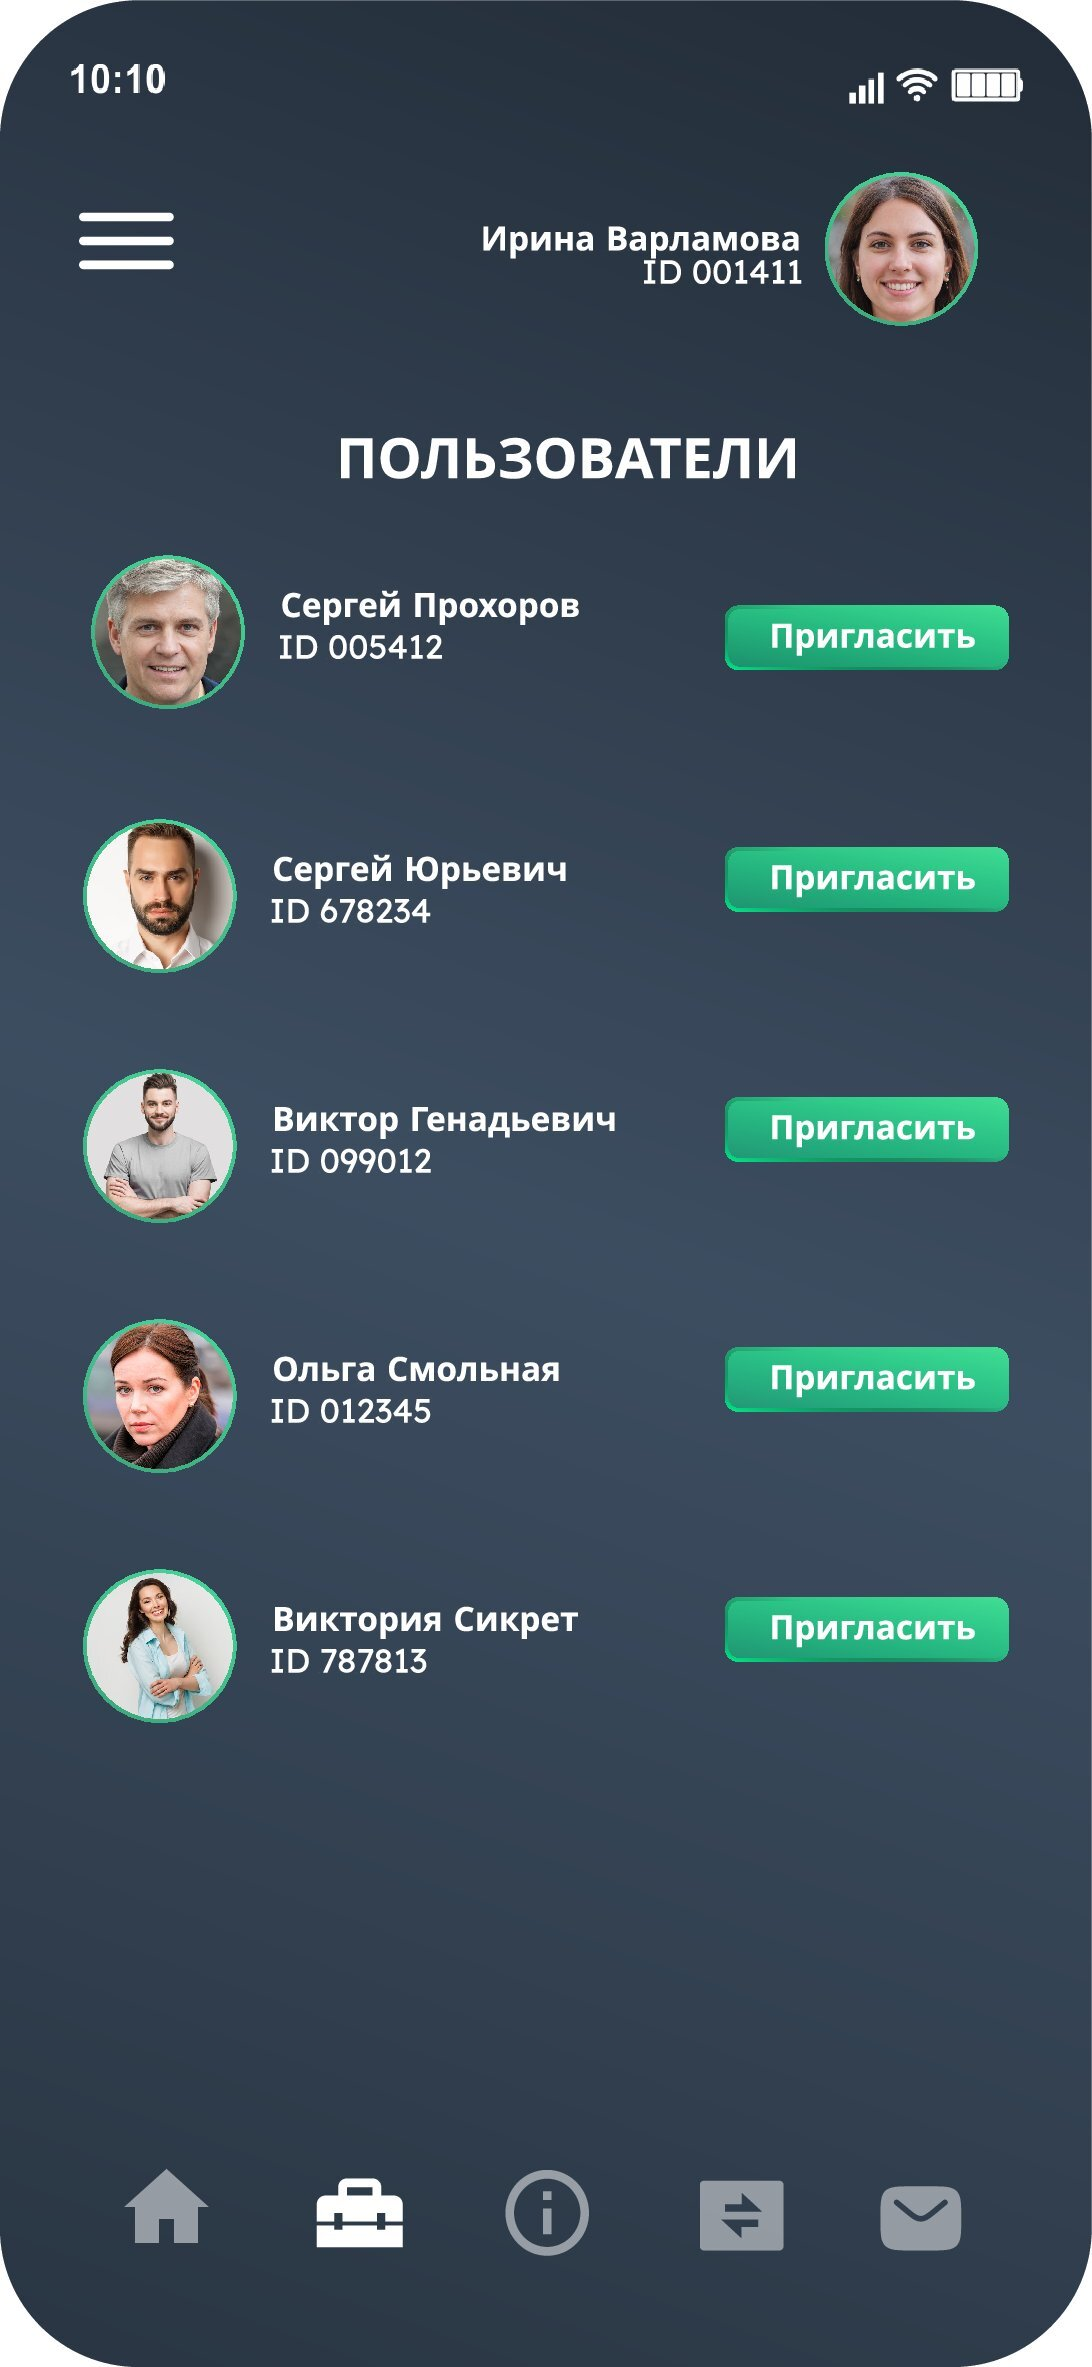
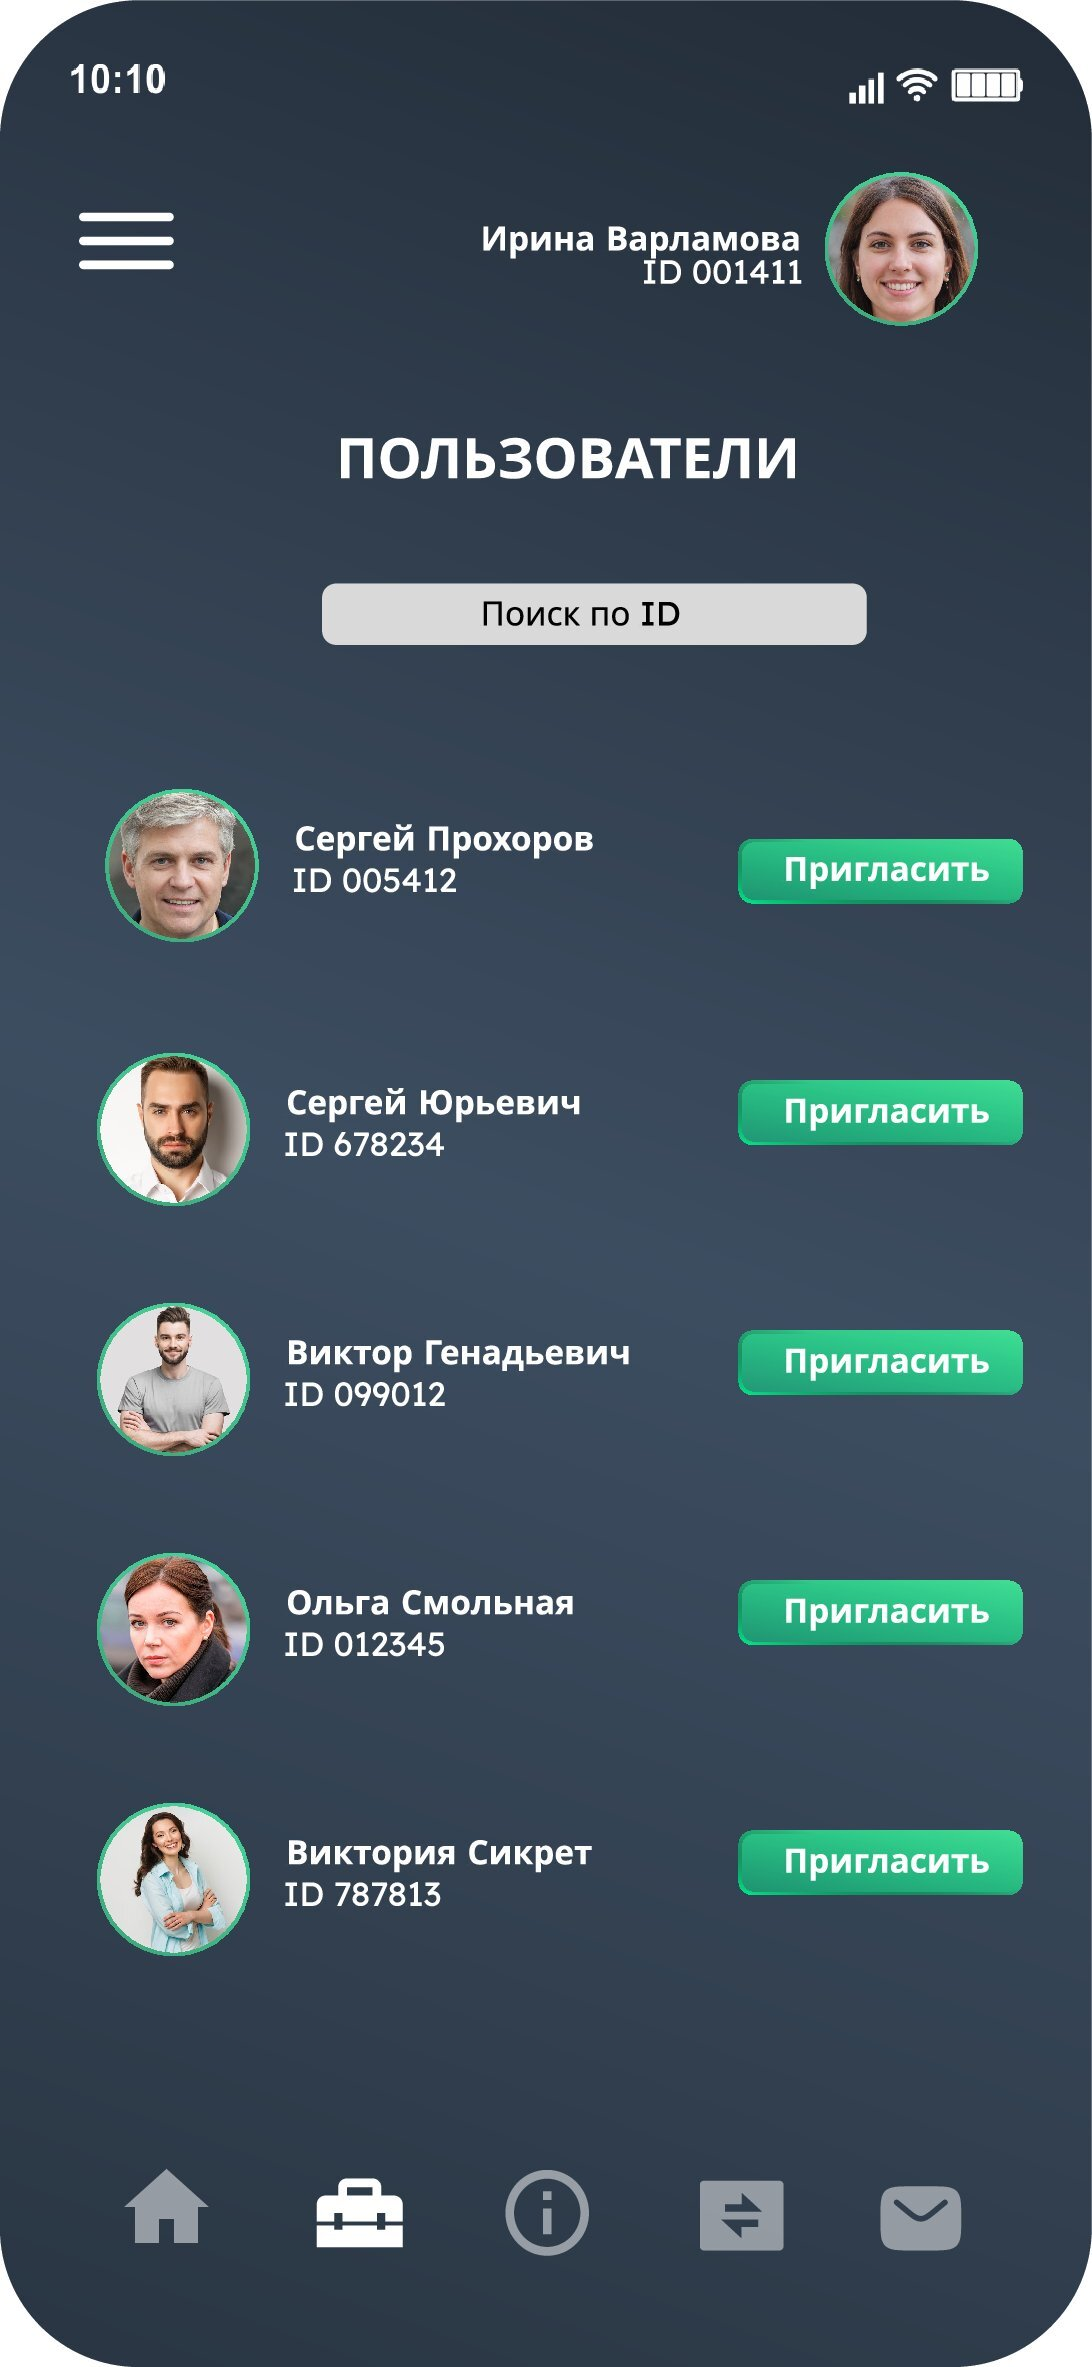
readme fix

diff --git a/README.md b/README.md
@@ -1,5 +1,23 @@
-# BookMe
+# BookMe_Frontend
 
+## Оглавление
+
+1. [Введение](#введение)
+2. [Роли](#роли:)
+3. [Технологии](#технологии:)
+4. [Участники проекта](#участники-проекта:)
+5. [Авторизация/Регистрация](#авторизация/Регистрация)
+6. [Роль Пользователь](#роль-пользователь)
+    - [Календарь](#календарь)
+    - [Опция "Пригласить"](#опция-пригласить)
+7. [Роль Гость](#роль-гость)
+    - [Просмотр приглашений](#просмотр-приглашений)
+    - [Мои брони](#мои-брони)
+8. [Поиск пользователей](#поиск-пользователей)
+9. [Личный кабинет](#личный-кабинет)
+
+
+# Введение
 Проект, который помогает договариваться о встречах **быстро** и **без лишних ожиданий** от собеседника.
 
 В этом приложении вы можете:
@@ -8,6 +26,14 @@
 3. Гость выбирает наиболее удобный вариант.
 4. Вы получаете уведомление о выборе гостем времени.
 5. Тайм-слот автоматически бронируется в вашем календаре.
+
+## Роли:
+1. **_Пользователь_** - тот, кто приглашает.
+2. **_Гость_** - тот, кто принимает приглашение.
+
+
+`P.S
+Роли представленны для удобства. Фактического распределения ролей в слое авторизации нет`
 
 ## Технологии:
 - Dart/Flutter (Frontend)
@@ -25,36 +51,121 @@
 - [Айчурок Ибраимова](https://t.me/aichurok_i) - **Frontend**
 - [Семенов Филипп](https://t.me/semenovfilipp) - **Backend**
 
+_____
 ### Авторизация/Регистрация
-<img src="docs/Календарь_фото/1.jpg" alt="Фото 1" width="200" height=""> <!-- Фото -->
 
 #### Авторизация
 - Проверка пользователя осуществляется по email.
 - Каждый пользователь получает JWT токен после авторизации.
 - Все запросы к API проходят через токен, который проверяется на стороне Java.
 
+<img src="docs/Календарь_фото/1.jpg" alt="Фото 1" width="200" height=""> <!-- Фото -->
 
-<img src="docs/Календарь_фото/9.jpg" alt="Фото 9" width="200" height="">
 
 #### Регистрация
 - Регистрация происходит по email.
 - После регистрации пользователь получает письмо с подтверждением.
 - Для безопасности запроса токен проверяется при каждом запросе и может быть обновлен.
+  
+<img src="docs/Календарь_фото/9.jpg" alt="Фото 9" width="200" height="">
+
+_____
+# Роль Пользователь
+## Календарь
+
+Каждый пользователь имеет свой собственный календарь. В нем представлены тайм-слоты с интервалом в 1 час. В текущей версии **MVP** календарь охватывает период с 10:00 до 20:00.
+
+### Тайм-слоты
+
+Каждый тайм-слот может находиться в двух состояниях:
+
+- **Забронирован** (отображается красным цветом)
+- **Свободен** (отображается зеленым цветом)
+
+### Месяц
+
+В режиме просмотра месяца показываются числа текущего месяца. Каждое число отображает количество забронированных тайм-слотов в виде маленьких квадратиков.
+
+<img src="docs/Календарь_фото/2.jpg" alt="Фото 2" width="200" height="">
+
+### Неделя
+
+В режиме просмотра недели показываются дни текущей недели. Каждый день показывает количество забронированных тайм-слотов.
+
+<img src="docs/Календарь_фото/3.jpg" alt="Фото 3" width="200" height="">
+
+### День
+
+В режиме просмотра дня отображаются все тайм-слоты текущего дня. Занятые тайм-слоты отмечены пользователем, который их забронировал. На свободных тайм-слотах имеется опция "Пригласить".
+
+<img src="docs/Календарь_фото/4.jpg" alt="Фото 4" width="200" height="">
+
+___
+## Опция пригласить
+
+Когда пользователь нажимает на тайм-слот, который не занят, появляется опция "Пригласить".
+В окне пользователь может выбрать:
+- Дату, на которую он хочет пригласить гостя.
+- Свободные тайм-слоты в дате, на которую он хочет пригласить гостя.
+
+<img src="docs/Календарь_фото/5.jpg" alt="Фото 5" width="200" height="">
+
+На данный момент в варианте **_MVP_** пригласить пользователя можно только по его ID.
 
 
 
+______
+# Роль Гость
+## Просмотр приглашений
+
+Гость может просматривать свои приглашения, то есть те события на которые **пригласили его**.
+
+<img src="docs/Календарь_фото/6.jpg" alt="Фото 6" width="200" height="">
+
+При переходе по приглашению предлагается выбор:
+- Принять приглашение.
+- Выбрать тайм-слот
+- Посмотртеть кто пригласил
+- Посмотрть на какую дату приглашение
+
+<img src="docs/Календарь_фото/7.jpg" alt="Фото 7" width="200" height="">
 
 
-<img src="docs/Календарь_фото/2.jpg" alt="Фото 2" width="300" height="">
-<img src="docs/Календарь_фото/3.jpg" alt="Фото 3" width="300" height="">
-<img src="docs/Календарь_фото/4.jpg" alt="Фото 4" width="300" height="">
-<img src="docs/Календарь_фото/5.jpg" alt="Фото 5" width="300" height="">
-<img src="docs/Календарь_фото/6.jpg" alt="Фото 6" width="300" height="">
-<img src="docs/Календарь_фото/7.jpg" alt="Фото 7" width="300" height="">
-<img src="docs/Календарь_фото/8.jpg" alt="Фото 8" width="300" height="">
-<img src="docs/Календарь_фото/9.jpg" alt="Фото 9" width="300" height="">
-<img src="docs/Календарь_фото/10.jpg" alt="Фото 10" width="300" height="">
-<img src="docs/Календарь_фото/11.jpg" alt="Фото 11" width="300" height="">
-<img src="docs/Календарь_фото/12.jpg" alt="Фото 12" width="300" height="">
+При принятии приглашения происходит визуальная индикация для гостя - выбранный таймслот становится красным.
+Далее гостьподтверждает свой выбор. Его бронь отправляется в "Мои брони".
+Пользователь который создал приглашение получает уведомление об успешном принятии приглашения.
+ 
+<img src="docs/Календарь_фото/8.jpg" alt="Фото 8" width="200" height="">
+
+
+`При отсутсвии выбора отмена приглашения происходит автоматически.
+`
+
+____
+## Мои брони
+
+<img src="docs/Календарь_фото/11.jpg" alt="Фото 11" width="200" height="">
+
+Здесь гость может просматривать свои брони, то есть события участие в которых он подтвердил.
+
+_____
+# Поиск пользователей
+
+Поиск пользователей будет осуществляться по ID.
+
+<img src="docs/Календарь_фото/12.jpg" alt="Фото 10" width="200" height="">
+
+_____
+
+# Личный кабинет
+
+В личном кабинете пользователь может изменить свое:
+- Фото
+- Имя
+- Фамилию
+- Пароль
+
+<img src="docs/Календарь_фото/10.jpg" alt="Фото 10" width="200" height="">
+
 
 
